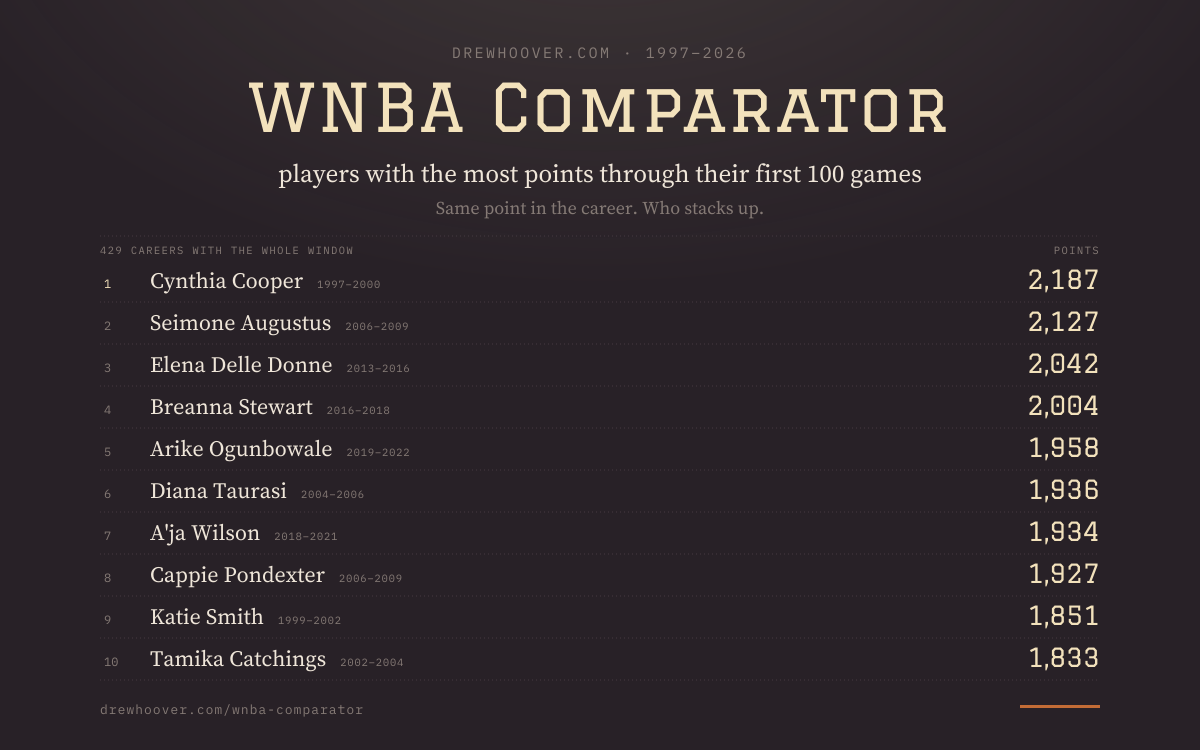
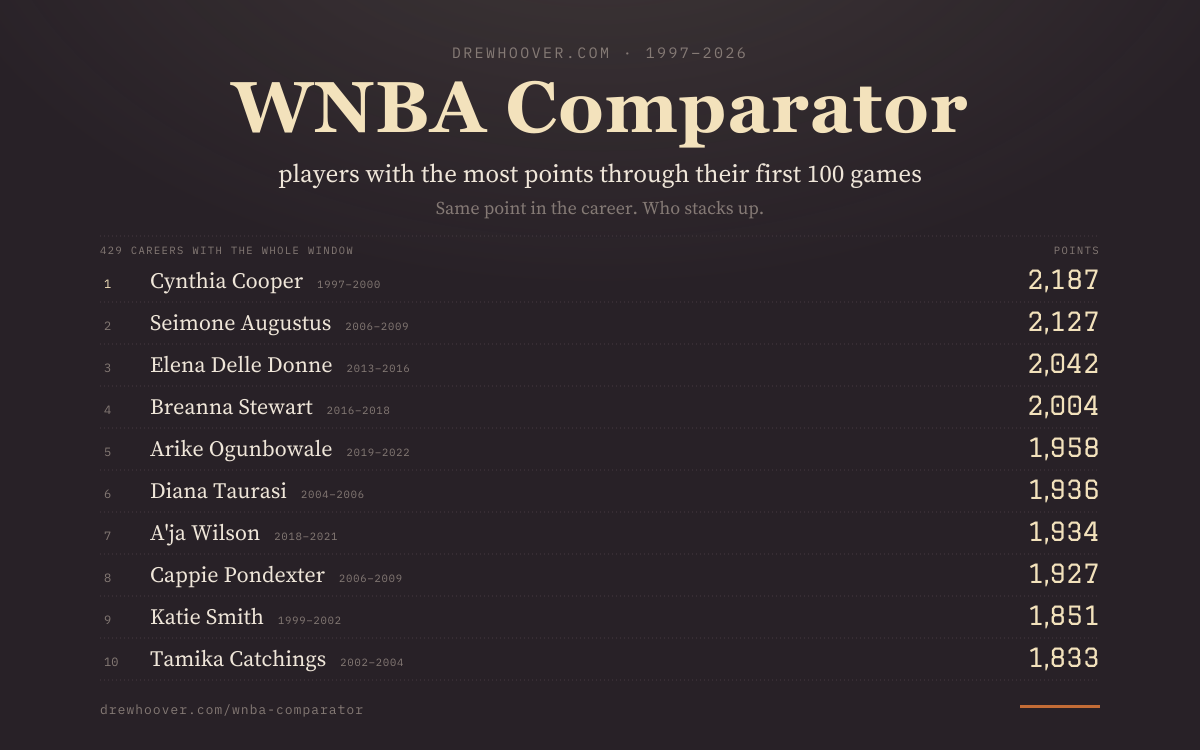
Title in Georgia Bold, the face Hostile Territory's poster uses: page h1 and the share image

Changed region(s): [[0.185, 0.092, 0.8017, 0.2147]]

diff --git a/index.html b/index.html
@@ -9,7 +9,7 @@
     <title>WNBA Comparator</title>
     <link rel="preconnect" href="https://fonts.googleapis.com" />
     <link rel="preconnect" href="https://fonts.gstatic.com" crossorigin />
-    <link href="https://fonts.googleapis.com/css2?family=Graduate&amp;family=Source+Serif+4:ital,opsz,wght@0,8..60,400;0,8..60,600;1,8..60,400&amp;family=IBM+Plex+Mono:wght@400;500;600&amp;display=swap" rel="stylesheet" />
+    <link href="https://fonts.googleapis.com/css2?family=Graduate&amp;family=Source+Serif+4:ital,opsz,wght@0,8..60,400;0,8..60,600;0,8..60,700;1,8..60,400&amp;family=IBM+Plex+Mono:wght@400;500;600&amp;display=swap" rel="stylesheet" />
     <link rel="icon" type="image/svg+xml" href="/favicon.svg" />
     <link rel="icon" type="image/png" sizes="32x32" href="/favicon-32.png" />
     <link rel="icon" type="image/png" sizes="192x192" href="/favicon-192.png" />

diff --git a/src/styles.css b/src/styles.css
@@ -34,9 +34,9 @@ main { max-width: 880px; margin: 0 auto; padding: 28px 24px 80px; position: rela
 @media (max-width: 600px) { main { padding: 18px 14px 60px; } }
 
 h1 {
-  font-family: 'Graduate', serif; font-weight: 400; text-align: center;
+  font-family: Georgia, 'Source Serif 4', 'Times New Roman', serif; font-weight: 700; text-align: center;
   font-size: clamp(34px, 6vw, 56px); line-height: 1.08; margin: 12px 0 0; color: var(--cream);
-  letter-spacing: 0.03em;
+  letter-spacing: 0.02em;
 }
 h2 { font-family: 'Graduate', serif; font-weight: 400; font-size: 19px; letter-spacing: 0.04em; margin: 40px 0 4px; color: var(--cream); }
 a { color: var(--cream); }
